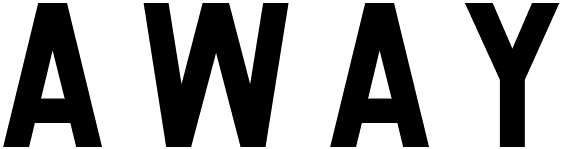
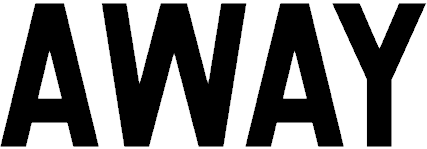
Try kerning the words more closely

diff --git a/html/game.html b/html/game.html
@@ -45,12 +45,12 @@
 
         <div id="answer">
         {% if gametoday and homegame %}
-            <h1><img src="/static/yes.png" width="381" height="152" alt="YES"></h1>
+            <h1><img src="/static/yes.png" width="326" height="152" alt="YES"></h1>
         {% else %}{% if gametoday %}
             <p>Yes, but it's</p>
-            <h1><img src="/static/away.png" width="561" height="149" alt="AWAY"></h1>
+            <h1><img src="/static/away.png" width="427" height="149" alt="AWAY"></h1>
         {% else %}
-            <h1><img src="/static/nope.png" width="536" height="150" alt="NOPE"></h1>
+            <h1><img src="/static/nope.png" width="460" height="150" alt="NOPE"></h1>
         {% endif %}{% endif %}
         </div>
 
